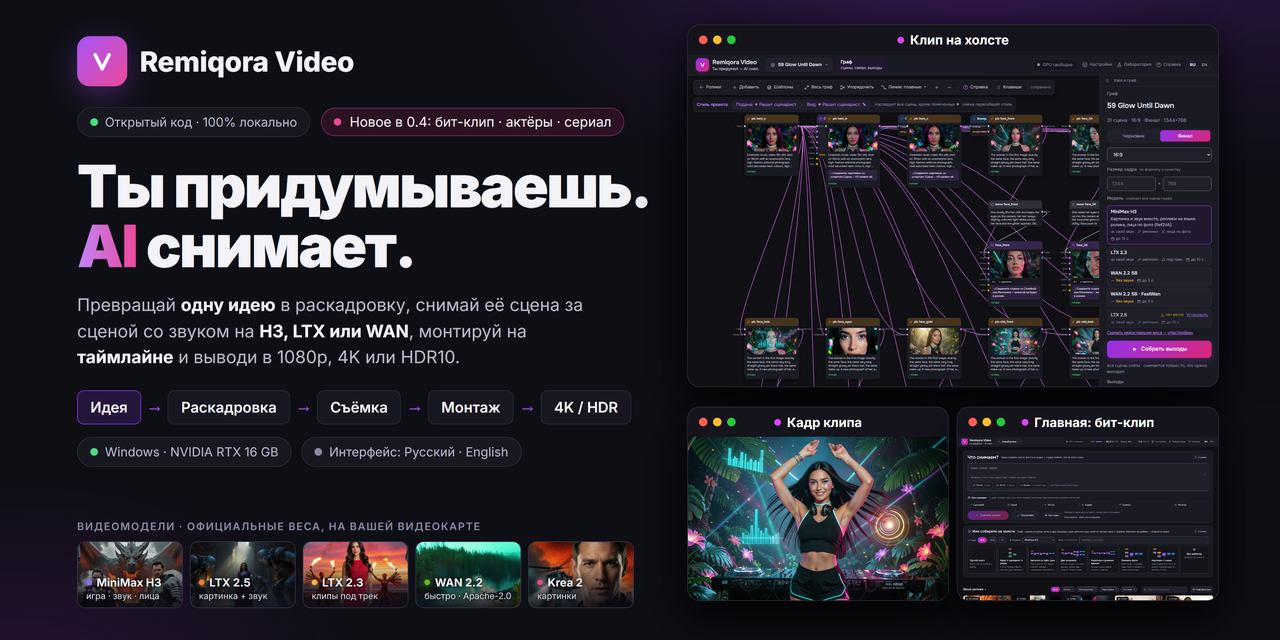
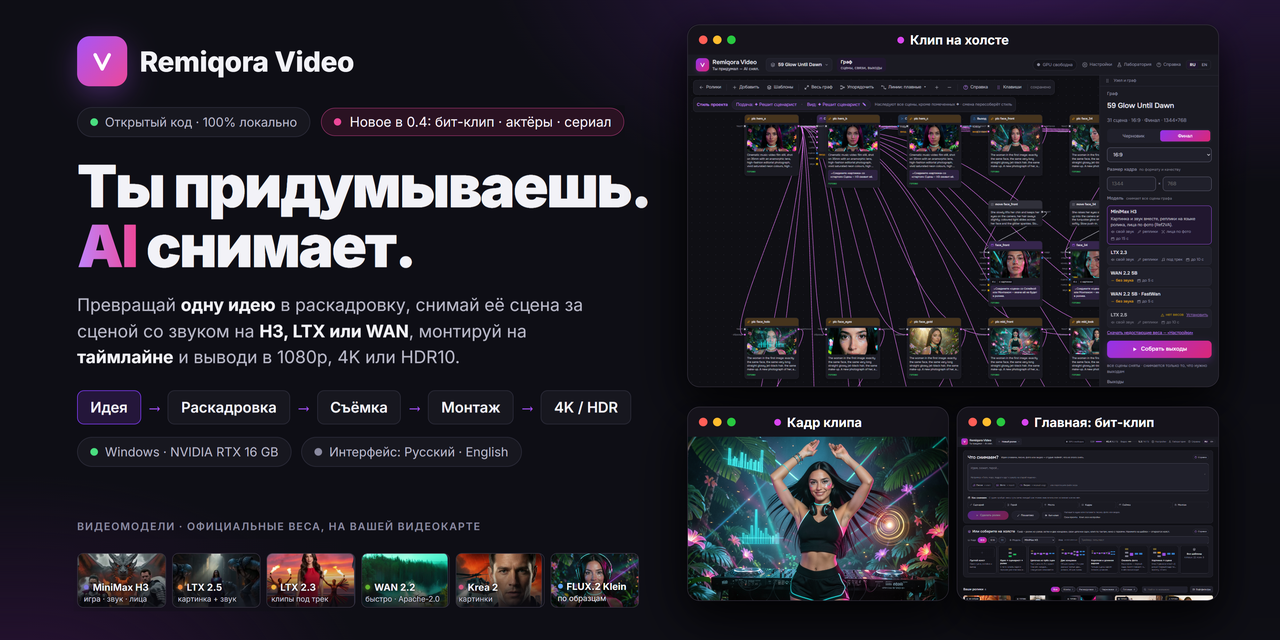
Remiqora Video: FLUX.2 Klein among the models, posters with six model tiles

Changed region(s): [[0.0625, 0.8438, 0.5, 0.9688]]

diff --git a/ru/video/index.html b/ru/video/index.html
@@ -21,7 +21,7 @@
 <meta property="og:image:type" content="image/png">
 <meta property="og:image:width" content="1280">
 <meta property="og:image:height" content="640">
-<meta property="og:image:alt" content="Remiqora Video: «Ты придумал — ИИ снял» рядом с экранами ролика, монтажа и раскадровки и пятью видеомоделями.">
+<meta property="og:image:alt" content="Remiqora Video: «Ты придумал — ИИ снял» рядом с экранами клипа и шестью моделями.">
 <meta property="og:url" content="https://remiqora.com/ru/video/">
 <meta property="og:locale" content="ru_RU">
 <meta property="og:locale:alternate" content="en_US">
@@ -29,7 +29,7 @@
 <meta name="twitter:title" content="Remiqora Video: локальная видеостудия на ИИ со звуком, раскадровкой и монтажом">
 <meta name="twitter:description" content="Видеостудия на ИИ с открытым кодом на вашей видеокарте: сценарист превращает идею в раскадровку, MiniMax H3, LTX или WAN снимают её со звуком, дальше монтаж, граф и финал в 4K.">
 <meta name="twitter:image" content="https://remiqora.com/video/social-preview-ru.png">
-<meta name="twitter:image:alt" content="Remiqora Video: «Ты придумал — ИИ снял» рядом с экранами ролика, монтажа и раскадровки и пятью видеомоделями.">
+<meta name="twitter:image:alt" content="Remiqora Video: «Ты придумал — ИИ снял» рядом с экранами клипа и шестью моделями.">
 <link rel="icon" href="../../video/logo.svg" type="image/svg+xml">
 <link rel="preload" href="../../video/screenshots/03-film.webp" as="image" type="image/webp" fetchpriority="high">
 <script type="application/ld+json">{"@context":"https://schema.org","@graph":[{"@type":"WebPage","@id":"https://remiqora.com/ru/video/#webpage","url":"https://remiqora.com/ru/video/","name":"Remiqora Video: локальная видеостудия на ИИ со звуком, раскадровкой и монтажом","description":"Видеостудия на ИИ с открытым кодом на вашей видеокарте: сценарист превращает идею в раскадровку, MiniMax H3, LTX или WAN снимают её со звуком, дальше монтаж, граф и финал в 4K.","inLanguage":"ru","isPartOf":{"@id":"https://remiqora.com/#website"},"about":{"@id":"https://remiqora.com/video/#app"},"author":{"@id":"https://remiqora.com/#author"},"primaryImageOfPage":{"@type":"ImageObject","url":"https://remiqora.com/video/social-preview-ru.png","width":1280,"height":640}},{"@type":"SoftwareApplication","@id":"https://remiqora.com/video/#app","name":"Remiqora Video","url":"https://remiqora.com/video/","description":"Видеостудия на ИИ с открытым кодом на вашей видеокарте: сценарист превращает идею в раскадровку, MiniMax H3, LTX или WAN снимают её со звуком, дальше монтаж, граф и финал в 4K.","inLanguage":"ru","applicationCategory":"MultimediaApplication","applicationSubCategory":"Video production","operatingSystem":"Windows","softwareRequirements":"Windows 11 with an NVIDIA RTX GPU","memoryRequirements":"NVIDIA RTX GPU with 16 GB of video memory (RTX 4080 tested)","storageRequirements":"About 51 GB to 210 GB, depending on the model sets chosen at install","softwareVersion":"0.4.0","downloadUrl":"https://github.com/inikolax/remiqora-video/releases/tag/v0.4.0","image":"https://remiqora.com/video/social-preview-ru.png","screenshot":["https://remiqora.com/video/screenshots/03-film.webp","https://remiqora.com/video/screenshots/02-storyboard.webp","https://remiqora.com/video/screenshots/05-montage.webp","https://remiqora.com/video/screenshots/graph-two-endings.webp","https://remiqora.com/video/screenshots/01-idea.webp"],"isAccessibleForFree":true,"offers":{"@type":"Offer","price":"0","priceCurrency":"USD"},"license":"https://github.com/inikolax/remiqora-video/blob/master/LICENSE","author":{"@id":"https://remiqora.com/#author"},"sameAs":["https://github.com/inikolax/remiqora-video"]},{"@type":"FAQPage","@id":"https://remiqora.com/ru/video/#faq","inLanguage":"ru","isPartOf":{"@id":"https://remiqora.com/ru/video/#webpage"},"mainEntity":[{"@type":"Question","name":"Remiqora Video бесплатна?","acceptedAnswer":{"@type":"Answer","text":"Да. Код открыт под GPL-3.0, без аккаунта и ограничений. Всё работает на вашем железе, платите только за электричество."}},{"@type":"Question","name":"Какое железо нужно?","acceptedAnswer":{"@type":"Answer","text":"Windows 11 и видеокарта NVIDIA RTX с 16 ГБ видеопамяти; проверено на RTX 4080. На диске — около 51 ГБ на минимум и около 210 ГБ на все модели. Нет такой видеокарты — модели могут работать на арендованной облачной (RunPod), а студия останется на вашем компьютере."}},{"@type":"Question","name":"Работает без интернета?","acceptedAnswer":{"@type":"Answer","text":"После разовой загрузки — да: сценарист, видеомодели, монтаж и финал работают на вашем компьютере."}},{"@type":"Question","name":"Можно публиковать ролики?","acceptedAnswer":{"@type":"Answer","text":"Видео подпадает под лицензию модели, которая его сделала: MiniMax H3 Community License, LTX-2 Community License (бесплатно при выручке до $10 млн), WAN 2.2 — Apache-2.0. Проверяйте актуальные условия на странице модели и не создавайте видео с реальными людьми без их согласия."}},{"@type":"Question","name":"Где документация?","acceptedAnswer":{"@type":"Answer","text":"В приложении: кнопка «Справка» и «?» у каждого поля, на русском и английском, плюс 15 сценариев по шагам. Та же справка есть в Wiki проекта."}}]},{"@type":"Person","@id":"https://remiqora.com/#author","name":"Nikolay Cherkashin","url":"https://github.com/inikolax","sameAs":["https://github.com/inikolax"]}]}</script>
@@ -67,7 +67,7 @@
   <section id="models" class="wrap section">
     <h2>Видеомодели</h2>
     <p class="section__lead">Устанавливаются только официальные веса — от авторов моделей или из их официальных перепаковок под ComfyUI. Подойдёт и любой файл того же устройства: другой квант, дообучение.</p>
-    <div class="cols cols--3"><div><h3>MiniMax H3</h3><p>Лица и игра, лица по фото (Ref2VA). Свой звук и реплики на языке ролика. Сцены до 15 с.</p></div><div><h3>LTX 2.5</h3><p>Быстрые сцены со звуком, «прийти к кадру» по первому и последнему кадру. До 10 с.</p></div><div><h3>LTX 2.3</h3><p>Клипы: снимает под ваш трек, герои поют; голос героя по образцу. До 10 с.</p></div><div><h3>WAN 2.2 5B</h3><p>Только картинка, Apache-2.0; FastWan — за 8 шагов вместо 20. До 5 с.</p></div><div><h3>Krea 2</h3><p>Картинки: первый кадр сцены, певец для клипа, герой по описанию.</p></div><div><h3>Сценарист</h3><p>Gemma 4 E4B на llama.cpp пишет раскадровку, реплики и промты; подойдёт любая чат-модель в GGUF.</p></div></div>
+    <div class="cols cols--3"><div><h3>MiniMax H3</h3><p>Лица и игра, лица по фото (Ref2VA). Свой звук и реплики на языке ролика. Сцены до 15 с.</p></div><div><h3>LTX 2.5</h3><p>Быстрые сцены со звуком, «прийти к кадру» по первому и последнему кадру. До 10 с.</p></div><div><h3>LTX 2.3</h3><p>Клипы: снимает под ваш трек, герои поют; голос героя по образцу. До 10 с.</p></div><div><h3>WAN 2.2 5B</h3><p>Только картинка, Apache-2.0; FastWan — за 8 шагов вместо 20. До 5 с.</p></div><div><h3>Krea 2</h3><p>Картинки: первый кадр сцены, певец для клипа, герой по описанию.</p></div><div><h3>FLUX.2 Klein</h3><p>Картинки по образцам: первый кадр сцены с лицом героя по фото, лист лица и разворот актёра, картинка по картинкам-примерам. Apache-2.0.</p></div><div><h3>Сценарист</h3><p>Gemma 4 E4B на llama.cpp пишет раскадровку, реплики и промты; подойдёт любая чат-модель в GGUF.</p></div></div>
     <p class="note">MiniMax H3 необязательна: её лицензия не действует в США, ЕС, Великобритании и Южной Корее, и установщик спрашивает согласие, прежде чем её ставить. Убедитесь, что пользоваться моделью законно там, где вы живёте. У каждой модели своя лицензия, и видео подпадает под лицензию модели, которая его сделала.</p>
   </section>
 

diff --git a/video/index.html b/video/index.html
@@ -21,7 +21,7 @@
 <meta property="og:image:type" content="image/png">
 <meta property="og:image:width" content="1280">
 <meta property="og:image:height" content="640">
-<meta property="og:image:alt" content="Remiqora Video: «You imagine it. AI shoots it.» next to the film, montage and storyboard screens and the five video models.">
+<meta property="og:image:alt" content="Remiqora Video: «You imagine it. AI shoots it.» next to the screens of a music video and the six models.">
 <meta property="og:url" content="https://remiqora.com/video/">
 <meta property="og:locale" content="en_US">
 <meta property="og:locale:alternate" content="ru_RU">
@@ -29,7 +29,7 @@
 <meta name="twitter:title" content="Remiqora Video: local AI video studio with sound, storyboard and montage">
 <meta name="twitter:description" content="Open-source AI video studio on your own GPU: a local writer turns an idea into a storyboard, MiniMax H3, LTX or WAN shoot it with sound, then montage, a node graph and a 4K finish.">
 <meta name="twitter:image" content="https://remiqora.com/video/social-preview.png">
-<meta name="twitter:image:alt" content="Remiqora Video: «You imagine it. AI shoots it.» next to the film, montage and storyboard screens and the five video models.">
+<meta name="twitter:image:alt" content="Remiqora Video: «You imagine it. AI shoots it.» next to the screens of a music video and the six models.">
 <link rel="icon" href="logo.svg" type="image/svg+xml">
 <link rel="preload" href="screenshots/en/03-film.webp" as="image" type="image/webp" fetchpriority="high">
 <script type="application/ld+json">{"@context":"https://schema.org","@graph":[{"@type":"WebPage","@id":"https://remiqora.com/video/#webpage","url":"https://remiqora.com/video/","name":"Remiqora Video: local AI video studio with sound, storyboard and montage","description":"Open-source AI video studio on your own GPU: a local writer turns an idea into a storyboard, MiniMax H3, LTX or WAN shoot it with sound, then montage, a node graph and a 4K finish.","inLanguage":"en","isPartOf":{"@id":"https://remiqora.com/#website"},"about":{"@id":"https://remiqora.com/video/#app"},"author":{"@id":"https://remiqora.com/#author"},"primaryImageOfPage":{"@type":"ImageObject","url":"https://remiqora.com/video/social-preview.png","width":1280,"height":640}},{"@type":"SoftwareApplication","@id":"https://remiqora.com/video/#app","name":"Remiqora Video","url":"https://remiqora.com/video/","description":"Open-source AI video studio on your own GPU: a local writer turns an idea into a storyboard, MiniMax H3, LTX or WAN shoot it with sound, then montage, a node graph and a 4K finish.","inLanguage":"en","applicationCategory":"MultimediaApplication","applicationSubCategory":"Video production","operatingSystem":"Windows","softwareRequirements":"Windows 11 with an NVIDIA RTX GPU","memoryRequirements":"NVIDIA RTX GPU with 16 GB of video memory (RTX 4080 tested)","storageRequirements":"About 51 GB to 210 GB, depending on the model sets chosen at install","softwareVersion":"0.4.0","downloadUrl":"https://github.com/inikolax/remiqora-video/releases/tag/v0.4.0","image":"https://remiqora.com/video/social-preview.png","screenshot":["https://remiqora.com/video/screenshots/en/03-film.webp","https://remiqora.com/video/screenshots/en/02-storyboard.webp","https://remiqora.com/video/screenshots/en/05-montage.webp","https://remiqora.com/video/screenshots/en/graph-two-endings.webp","https://remiqora.com/video/screenshots/en/01-idea.webp"],"isAccessibleForFree":true,"offers":{"@type":"Offer","price":"0","priceCurrency":"USD"},"license":"https://github.com/inikolax/remiqora-video/blob/master/LICENSE","author":{"@id":"https://remiqora.com/#author"},"sameAs":["https://github.com/inikolax/remiqora-video"]},{"@type":"FAQPage","@id":"https://remiqora.com/video/#faq","inLanguage":"en","isPartOf":{"@id":"https://remiqora.com/video/#webpage"},"mainEntity":[{"@type":"Question","name":"Is Remiqora Video free?","acceptedAnswer":{"@type":"Answer","text":"Yes. The app is open source under GPL-3.0, with no account and no limits. It runs on your hardware; the only cost is electricity."}},{"@type":"Question","name":"What hardware do I need?","acceptedAnswer":{"@type":"Answer","text":"Windows 11 and an NVIDIA RTX card with 16 GB of video memory; it is tested on an RTX 4080. Plan for about 51 GB of disk for the minimum and about 210 GB for every model. No GPU like that? The models can run on a rented cloud GPU (RunPod) while the studio stays on your computer."}},{"@type":"Question","name":"Does it work offline?","acceptedAnswer":{"@type":"Answer","text":"After the one-time downloads, yes: the writer, the video models, montage and the finish all run on your computer."}},{"@type":"Question","name":"Can I publish the videos?","acceptedAnswer":{"@type":"Answer","text":"A video falls under the license of the model that made it: MiniMax H3 Community License, LTX-2 Community License (free under US $10M revenue), WAN 2.2 Apache-2.0. Check the current terms on the model's page, and never make videos of real people without their consent."}},{"@type":"Question","name":"Where is the documentation?","acceptedAnswer":{"@type":"Answer","text":"In the app: the Help button and a «?» by every field, in English and Russian, with 15 step-by-step scenarios. The same help is on the project's Wiki."}}]},{"@type":"Person","@id":"https://remiqora.com/#author","name":"Nikolay Cherkashin","url":"https://github.com/inikolax","sameAs":["https://github.com/inikolax"]}]}</script>
@@ -67,7 +67,7 @@
   <section id="models" class="wrap section">
     <h2>Video models</h2>
     <p class="section__lead">Only the official weights are installed, straight from the model authors or their official ComfyUI repacks. Any file of the same build works too: another quant, a fine-tune.</p>
-    <div class="cols cols--3"><div><h3>MiniMax H3</h3><p>Faces and acting; faces from photos (Ref2VA). Its own sound and spoken lines in the video&#x27;s language. Scenes up to 15 s.</p></div><div><h3>LTX 2.5</h3><p>Fast scenes with sound; «arrive at a frame» with a first and a last frame. Up to 10 s.</p></div><div><h3>LTX 2.3</h3><p>Music videos: shoots to your track and the heroes sing; the hero&#x27;s voice from a sample. Up to 10 s.</p></div><div><h3>WAN 2.2 5B</h3><p>Picture only, Apache-2.0; FastWan does it in 8 steps instead of 20. Up to 5 s.</p></div><div><h3>Krea 2</h3><p>Pictures: a scene&#x27;s first frame, a singer for a music video, a hero drawn from a description.</p></div><div><h3>The writer</h3><p>Gemma 4 E4B on llama.cpp writes the storyboard, the lines and the prompts; any GGUF chat model works.</p></div></div>
+    <div class="cols cols--3"><div><h3>MiniMax H3</h3><p>Faces and acting; faces from photos (Ref2VA). Its own sound and spoken lines in the video&#x27;s language. Scenes up to 15 s.</p></div><div><h3>LTX 2.5</h3><p>Fast scenes with sound; «arrive at a frame» with a first and a last frame. Up to 10 s.</p></div><div><h3>LTX 2.3</h3><p>Music videos: shoots to your track and the heroes sing; the hero&#x27;s voice from a sample. Up to 10 s.</p></div><div><h3>WAN 2.2 5B</h3><p>Picture only, Apache-2.0; FastWan does it in 8 steps instead of 20. Up to 5 s.</p></div><div><h3>Krea 2</h3><p>Pictures: a scene&#x27;s first frame, a singer for a music video, a hero drawn from a description.</p></div><div><h3>FLUX.2 Klein</h3><p>Pictures by reference: a scene&#x27;s first frame with the hero&#x27;s face from a photo, the actor&#x27;s face sheet and turnaround, a picture from example pictures. Apache-2.0.</p></div><div><h3>The writer</h3><p>Gemma 4 E4B on llama.cpp writes the storyboard, the lines and the prompts; any GGUF chat model works.</p></div></div>
     <p class="note">MiniMax H3 is optional: its license does not apply in the US, the EU, the UK and South Korea, and the installer asks before it installs it. Make sure a model is legal to use where you live. Each model has its own license, and a video falls under the license of the model that made it.</p>
   </section>
 
